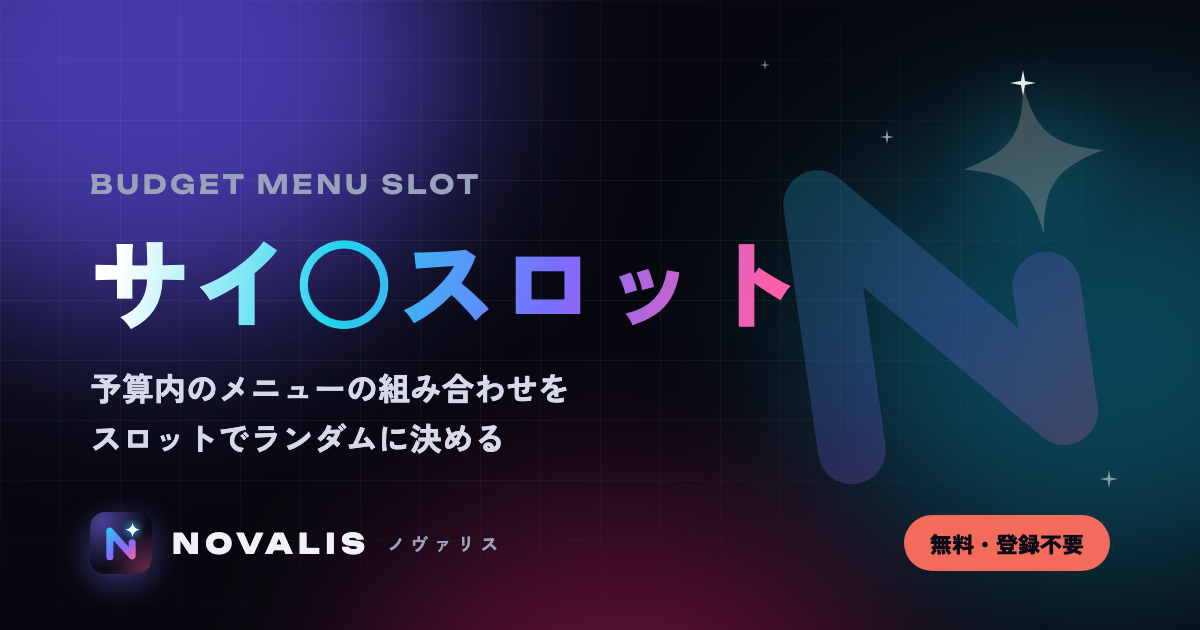
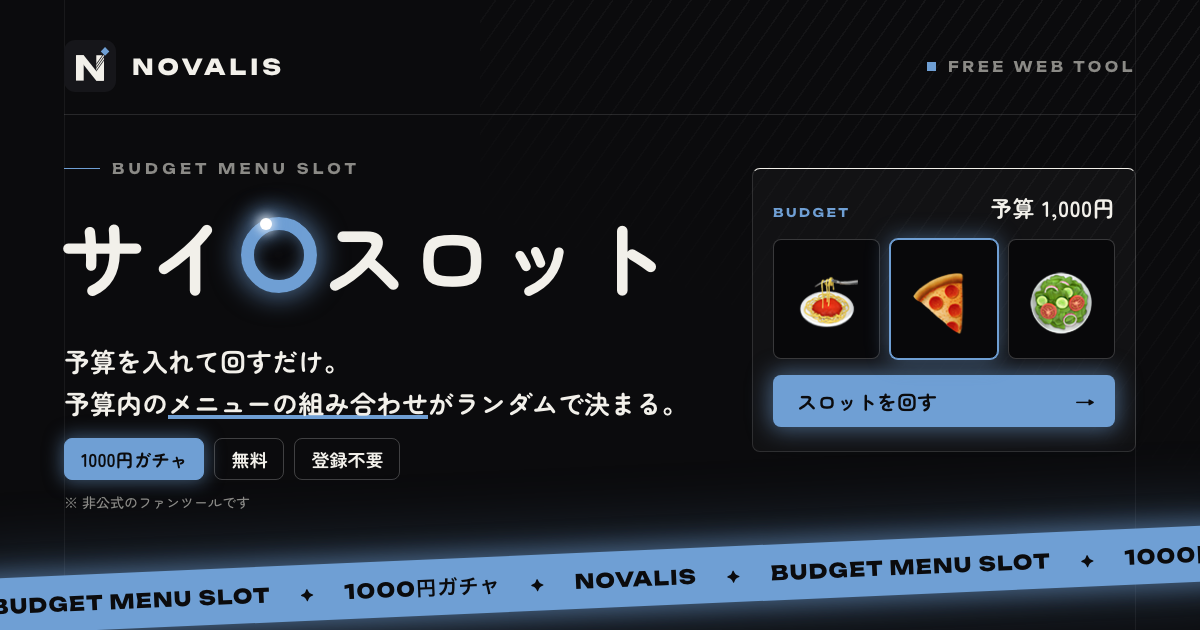
シェア画像（OGP）を novalis の今のデザインに作り直し、画像とアイコンのアドレスに版番号を追加
- 「サイ◯スロット」の ◯ を光る青いリングに、右側にスロットのリール
- ページの見た目は変更なし

diff --git a/index.html b/index.html
@@ -13,7 +13,7 @@
   <meta property="og:url" content="https://novalis-lab.github.io/sai-slot/">
   <meta property="og:title" content="サイ⚪スロット｜予算内のメニューをスロットで決める1000円ガチャ">
   <meta property="og:description" content="予算を入れて回すだけ。予算内で食べられるメニューの組み合わせがランダムで出てくる非公式の無料ツール。今日なに食べるか迷ったときに。">
-  <meta property="og:image" content="https://novalis-lab.github.io/sai-slot/ogp.png">
+  <meta property="og:image" content="https://novalis-lab.github.io/sai-slot/ogp.png?v=20261113">
   <meta property="og:image:width" content="1200">
   <meta property="og:image:height" content="630">
   <meta property="og:image:alt" content="サイ⚪スロット - 予算内のメニューの組み合わせをスロットでランダムに決める">
@@ -36,9 +36,9 @@
   </script>
   <meta name="theme-color" content="#1f6b3a">
   <!-- サイトのアイコン（novalis共通のロゴ） -->
-  <link rel="icon" href="https://novalis-lab.github.io/icon.svg" type="image/svg+xml">
-  <link rel="icon" href="https://novalis-lab.github.io/favicon-32.png" sizes="32x32" type="image/png">
-  <link rel="apple-touch-icon" href="https://novalis-lab.github.io/apple-touch-icon.png">
+  <link rel="icon" href="https://novalis-lab.github.io/icon.svg?v=20261113b" type="image/svg+xml">
+  <link rel="icon" href="https://novalis-lab.github.io/favicon-32.png?v=20261113b" sizes="32x32" type="image/png">
+  <link rel="apple-touch-icon" href="https://novalis-lab.github.io/apple-touch-icon.png?v=20261113b">
   <!-- フォント（Google Fonts・無料） -->
   <link rel="preconnect" href="https://fonts.googleapis.com">
   <link rel="preconnect" href="https://fonts.gstatic.com" crossorigin>
